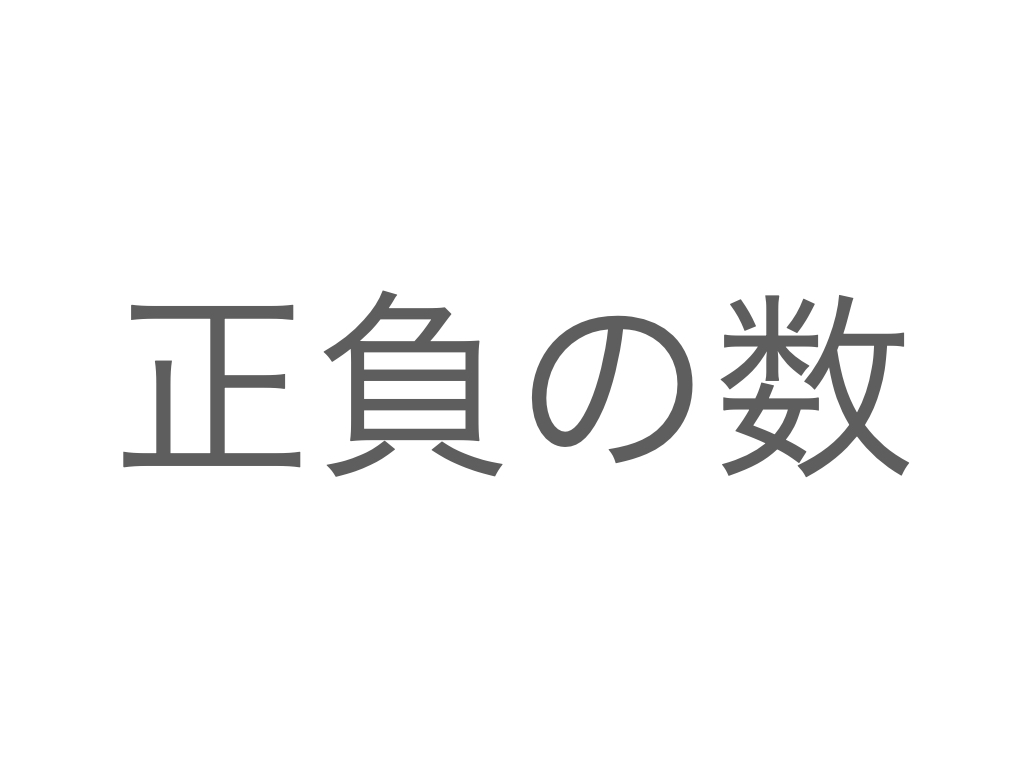
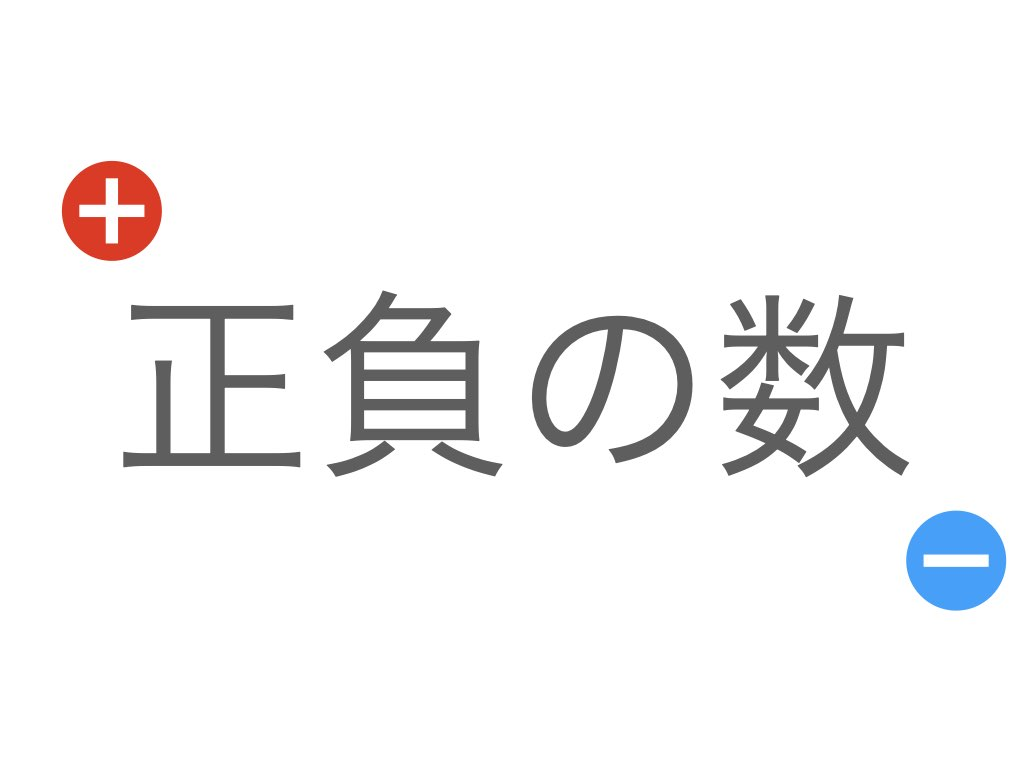
中１単元の画像を追加

Changed region(s): [[0.875, 0.6562, 1.0, 0.8125], [0.0625, 0.1875, 0.1562, 0.3438]]

diff --git a/Explanations/ExplanationsData.php b/Explanations/ExplanationsData.php
@@ -2,12 +2,12 @@
 require_once dirname(__FILE__) .'/ExplanationsClass.php';
 //                 単元名,          画像,                  URL
 $seifu = new Exp('正負の数','/images/seifu.jpeg',' /Explanations/Article/Seifu.php');
-$moji = new Exp('文字式','/images/seifu.jpeg',' /Explanations/Article/Seifu.php');
-$hoteishiki = new Exp('方程式','/images/seifu.jpeg',' /Explanations/Article/Seifu.php');
-$kansu = new Exp('関数','/images/seifu.jpeg',' /Explanations/Article/Seifu.php');
-$heimen = new Exp('平面図系','/images/seifu.jpeg',' /Explanations/Article/Seifu.php');
-$kukan = new Exp('空間図形','/images/seifu.jpeg',' /Explanations/Article/Seifu.php');
-$shiryo = new Exp('資料の整理','/images/seifu.jpeg',' /Explanations/Article/Seifu.php');
+$moji = new Exp('文字式','/images/moji.jpeg',' /Explanations/Article/Seifu.php');
+$hoteishiki = new Exp('方程式','/images/hoteishiki.jpeg',' /Explanations/Article/Seifu.php');
+$kansu = new Exp('関数','/images/kansu.jpeg',' /Explanations/Article/Seifu.php');
+$heimen = new Exp('平面図系','/images/heimen.jpeg',' /Explanations/Article/Seifu.php');
+$kukan = new Exp('空間図形','/images/kukan.jpeg',' /Explanations/Article/Seifu.php');
+$shiryo = new Exp('資料の整理','/images/shiryo.jpeg',' /Explanations/Article/Seifu.php');
 
 $mathUnits = array($seifu,$moji,$hoteishiki,$kansu,$heimen,$kukan,$shiryo);
 ?>
